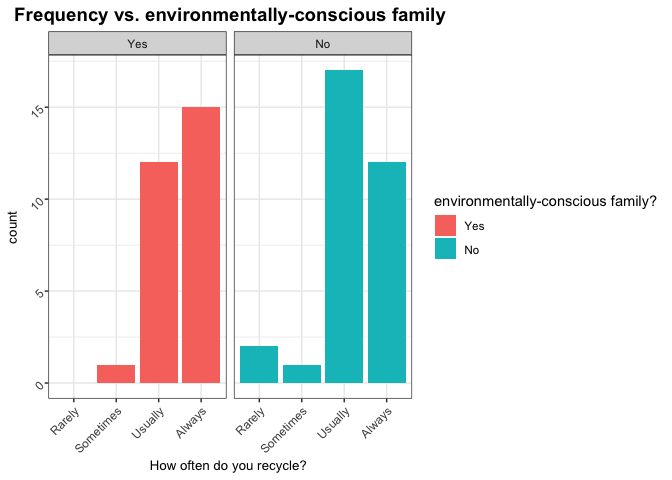
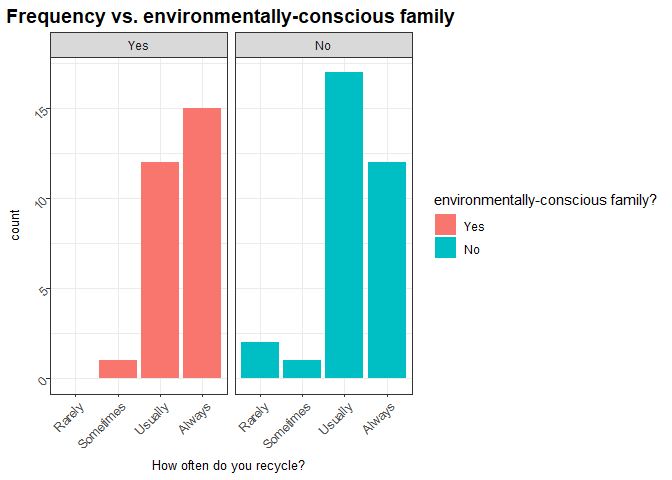
updated plot color and added description of last plot

diff --git a/Milestone2/Milestone2_EDA.md b/Milestone2/Milestone2_EDA.md
@@ -3,20 +3,17 @@ Milestone2\_EDA
 Wilson D., Marcelle C., Kera Y., Heather VT.
 4/5/2019
 
-This dataset is aimed to answer the question “Does a person’s frequency
-of recycling influence her/his opinion and attitudes towards the
-importance of sustainability?”. The description of columns as follows:
+This dataset is aimed to answer the question "Does a personâs frequency of recycling influence her/his opinion and attitudes towards the importance of sustainability?". The description of columns as follows:
 
-  - `Q1_1`: How important is being environmentally sustainable to you on
-    a scale from 1-10?
-  - `Q2`: How often do you generally recycle?
-  - `Q3`: What is your age group?
-  - `Q4`: Did you grow up in an environmentally-conscious family?
-  - `Q5`: Will you watch the video?
-  - `Q6_1`: After watching this video about recycling, how important is
-    sustainability to you on a self-ranked scale from 1-10 scale?
+-   `Q1_1`: How important is being environmentally sustainable to you on a scale from 1-10?
+-   `Q2`: How often do you generally recycle?
+-   `Q3`: What is your age group?
+-   `Q4`: Did you grow up in an environmentally-conscious family?
+-   `Q5`: Will you watch the video?
+-   `Q6_1`: After watching this video about recycling, how important is sustainability to you on a self-ranked scale from 1-10 scale?
 
-# Load Data
+Load Data
+=========
 
 ``` r
 #tidy data and give correct data type
@@ -58,36 +55,21 @@ summary(tidy_data)
     ##  NA's   :9
 
 > Analyzing the summary table, we noticed:
-> 
-> **Q1\_1: How important is being environmentally sustainable to you on
-> a scale from 1-10?**: on average, people rated sustainability as a 7.7
-> initially.
-> 
-> **Q2: How often do you generally recycle?**: Most of participants have
-> a good recycling habit: 29 answered “Usually” and 27 answered
-> “Always”. Only 4 other participants recycle sometimes or rarely.
-> 
-> **Q3: What is your age group?**: 60% of the participants are from the
-> younger groups, having 20-29 years old. We had a considerable amount
-> of people with 40+, but only 5% of the respondents are 35-39 years
-> old.
-> 
-> **Q4: Did you grow up in an environmentally-conscious family?**: 46.7%
-> of the respondents grow up in an environmentally-conscious family.
-> 
-> **Q5: Will you watch the video?**: Only 63% of the respondents
-> confirmed that they watched the video.
-> 
-> **Q6\_1: After watching this video about recycling, how important is
-> sustainability to you on a self-ranked scale from 1-10 scale?**: The
-> self rank about sustainability importance after watching the video had
-> a slightly higher mean and median than the first one (9 and 8.1 vs. 8
-> and 7.8, respectively). However, some people who didn’t watch the
-> video answered the last question, since we had 15 respondents who said
-> on Q5 that they passed the video, and only 9 participants answered NA
-> to Q6\_1. Weird.
+>
+> **Q1\_1: How important is being environmentally sustainable to you on a scale from 1-10?**: on average, people rated sustainability as a 7.7 initially.
+>
+> **Q2: How often do you generally recycle?**: Most of participants have a good recycling habit: 29 answered "Usually" and 27 answered "Always". Only 4 other participants recycle sometimes or rarely.
+>
+> **Q3: What is your age group?**: 60% of the participants are from the younger groups, having 20-29 years old. We had a considerable amount of people with 40+, but only 5% of the respondents are 35-39 years old.
+>
+> **Q4: Did you grow up in an environmentally-conscious family?**: 46.7% of the respondents grow up in an environmentally-conscious family.
+>
+> **Q5: Will you watch the video?**: Only 63% of the respondents confirmed that they watched the video.
+>
+> **Q6\_1: After watching this video about recycling, how important is sustainability to you on a self-ranked scale from 1-10 scale?**: The self rank about sustainability importance after watching the video had a slightly higher mean and median than the first one (9 and 8.1 vs. 8 and 7.8, respectively). However, some people who didn't watch the video answered the last question, since we had 15 respondents who said on Q5 that they passed the video, and only 9 participants answered NA to Q6\_1.
 
-# Explanatory Data Analysis
+Explanatory Data Analysis
+=========================
 
 ``` r
 tidy_data %>% 
@@ -103,19 +85,15 @@ tidy_data %>%
         axis.title = element_text(size = 10))
 ```
 
-![](Milestone2_EDA_files/imgs/plot%20family%20vs.%20frequency-1.png)<!-- -->
+![](Milestone2_EDA_files/imgs/plot%20family%20vs.%20frequency-1.png)
 
-> As we can see from the above plot, most of our respondent have a good
-> recycling habit whether or not they live in a
-> environmentally-consicous family. However, if one respondent did not
-> grow up in an environmentally-conscious family then he/she may not
-> recycle at all.
+> As we can see from the above plot, most of our respondent have a good recycling habit whether or not they live in a environmentally-consicous family. However, if one respondent did not grow up in an environmentally-conscious family then he/she may not recycle at all.
 
 ``` r
 ggplot(tidy_data, aes(Q3)) +
-  geom_histogram(stat="count") +
+  geom_histogram(stat="count", fill="brown") +
   labs(x = "Age groups",
-       title = "Distribution of Ages of Survey Respondents")+
+       title = "Distribution of Ages of Survey Respondents") +
   theme_bw() +
   theme(plot.title = element_text(size = 14, face = "bold", hjust = 0.5),
         axis.text = element_text(size = 14),
@@ -124,7 +102,7 @@ ggplot(tidy_data, aes(Q3)) +
 
     ## Warning: Ignoring unknown parameters: binwidth, bins, pad
 
-![](Milestone2_EDA_files/imgs/age%20distribution-1.png)<!-- -->
+![](Milestone2_EDA_files/imgs/age%20distribution-1.png)
 
 ``` r
 qplot(tidy_data$Q3, tidy_data$Q1_1, geom="boxplot") +
@@ -138,18 +116,9 @@ qplot(tidy_data$Q3, tidy_data$Q1_1, geom="boxplot") +
         axis.title = element_text(size = 13))
 ```
 
-![](Milestone2_EDA_files/imgs/plot%20age%20group%20vs.%20sustainability%20importance%20before%20watching%20the%20video-1.png)<!-- -->
+![](Milestone2_EDA_files/imgs/plot%20age%20group%20vs.%20sustainability%20importance%20before%20watching%20the%20video-1.png)
 
-> Analyzing the boxplots above is easy to see that older people (`35-39`
-> and `40+` groups) consider sustainability more important than younger
-> groups, having a higher mean (~9 in a scale from 1-10) and narrower
-> range. Additionaly, the other 3 groups (`20-24`, `25-29` and `30-34`)
-> have one outlier each, where at least one respondent of each of these
-> groups evaluated sustainability with a considerable lower importance
-> in comparison with the other participants from their respective group.
-> However, it’s important to take into account that we have fewer
-> responses from the second oldest age group, which can distort the
-> analysis. Further analysis with confidence intervals is warranted.
+> Analyzing the boxplots above is easy to see that older people (`35-39` and `40+` groups) consider sustainability more important than younger groups, having a higher mean (~9 in a scale from 1-10) and narrower range. Additionaly, the other 3 groups (`20-24`, `25-29` and `30-34`) have one outlier each, where at least one respondent of each of these groups evaluated sustainability with a considerable lower importance in comparison with the other participants from their respective group. However, it's important to take into account that we have fewer responses from the second oldest age group, which can distort the analysis. Further analysis with confidence intervals is warranted.
 
 ``` r
 tidy_data %>% filter(Q5 %in% 'Have watched') %>% 
@@ -166,7 +135,7 @@ tidy_data %>% filter(Q5 %in% 'Have watched') %>%
         axis.title = element_text(size = 13))
 ```
 
-![](Milestone2_EDA_files/imgs/unnamed-chunk-1-1.png)<!-- -->
+![](Milestone2_EDA_files/imgs/unnamed-chunk-1-1.png)
 
 ``` r
 tidy_data %>% filter(Q5 %in% 'Have watched') %>% 
@@ -183,35 +152,29 @@ tidy_data %>% filter(Q5 %in% 'Have watched') %>%
         axis.title = element_text(size = 13))
 ```
 
-![](Milestone2_EDA_files/imgs/unnamed-chunk-1-2.png)<!-- -->
+![](Milestone2_EDA_files/imgs/unnamed-chunk-1-2.png)
 
-> The respondents changed their opinion on how sustainable they think
-> they are in the positive direction. There were only two respondents
-> who scored less after watching the video .Respondents scored more
-> after the watching the video are the ones recycle usually. Respondents
-> score does not appear to be affected by age group, there may be other
-> underlying confounding factors in which we did not capture in our data
-> collection.
+> The respondents changed their opinion on how sustainable they think they are in the positive direction. There were only two respondents who scored less after watching the video .Respondents scored more after the watching the video are the ones recycle usually. Respondents score does not appear to be affected by age group, there may be other underlying confounding factors in which we did not capture in our data collection.
 
 ``` r
 p1 <- tidy_data %>% 
+  filter(Q5 %in% 'Have watched') %>%
   ggplot(aes(Q1_1)) +
   geom_bar(fill = "cyan3") +
-  ylim(0, 16) +
+  ylim(0, 15) +
   labs(title = "Rating before watching the video", x = "Ratings") +
   theme_bw()
 
-p2 <- tidy_data %>% 
-  filter(Q5 == "Have watched") %>% 
+p2 <- tidy_data %>% filter(Q5 %in% 'Have watched') %>%
   ggplot(aes(Q6_1)) +
   geom_bar(fill = "pink3") +
-  ylim(0, 16) +
+  ylim(0, 15) +
   labs(title = "Rating after watching the video", y = "", x = "Ratings") +
   theme_bw()
 
 grid.arrange(p1, p2, nrow = 1)
 ```
 
-![](Milestone2_EDA_files/imgs/grouped%20bar-1.png)<!-- -->
+![](Milestone2_EDA_files/imgs/grouped%20bar-1.png)
 
-> Discussion here.
+> These histograms show that there was a slight shift in ratings towards more positive ratings after watching the video. Further analysis with confidence intervals will follow.
